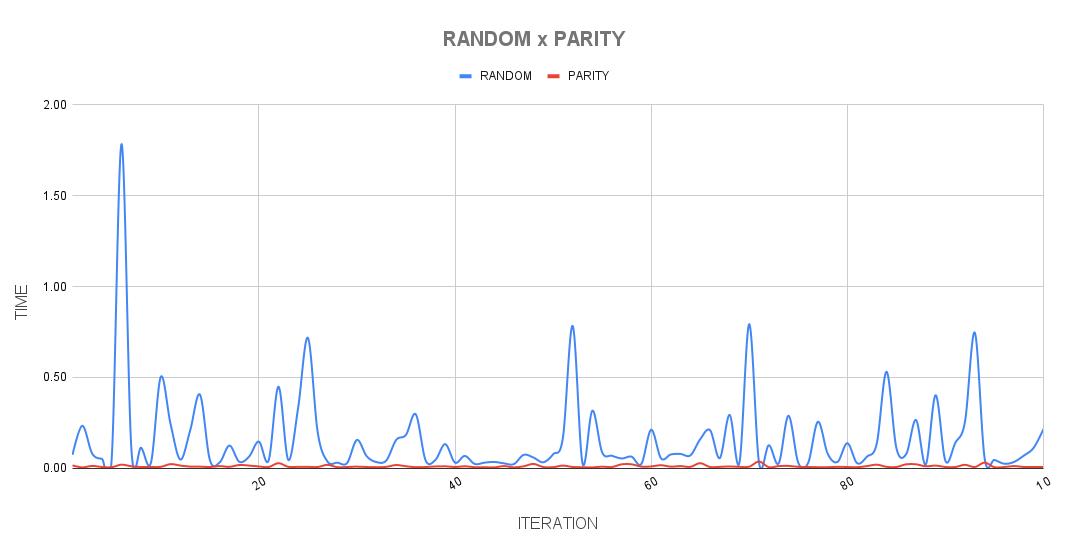
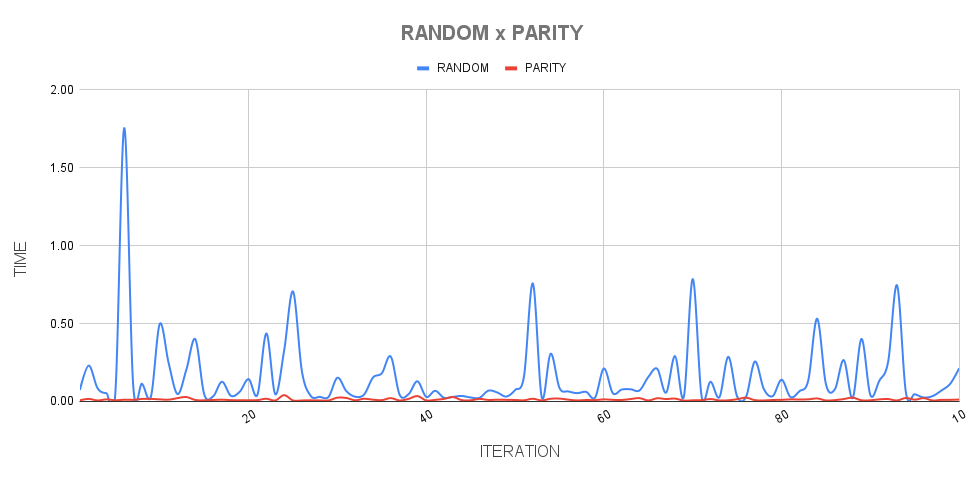
64x64 board tests

diff --git a/main.cpp b/main.cpp
@@ -11,11 +11,86 @@
 
 using namespace std;
 
-int main() {
-    cleanScreen();
-
+void simulateParity() {
     Clock clock;
-    int seed = randSeed(1); // 1650384373
+
+    cout << "Using PARITY implementation. Please wait..." << endl;
+    clock.tick();
+
+    HillClimbing<N> hillClimbing;
+    Board board = hillClimbing.getBoard();
+    int iterations, newState, state = board.attacks;
+
+    board.print("INITIAL STATE");
+
+    for (iterations = 0; true; iterations++) {
+        board = hillClimbing.calculateNextStateForParity();
+
+        board.print();
+
+        newState = board.attacks;
+
+        if (newState == 0) {
+            board.print("SOLUTION");
+            break;
+        }
+        if (state == newState) {
+            hillClimbing.randomizeOneQueenForParity();
+            hillClimbing.getBoard().print();
+        }
+
+        state = newState;
+    };
+
+    double endTime = clock.tock();
+
+    cout << "TIME SPENT: " << endTime << endl;
+    cout << "ITERATIONS: " << iterations << endl;
+
+    cout << "Completed" << endl;
+}
+
+void simulateRandom() {
+    Clock clock;
+
+    cout << "Using RANDOM implementation. Please wait..." << endl;
+    clock.tick();
+
+    HillClimbing<N> hillClimbing;
+    Board board = hillClimbing.getBoard();
+    int iterations, newState, state = board.attacks;
+
+    board.print("INITIAL STATE");
+
+    for (iterations = 0; true; iterations++) {
+        board = hillClimbing.calculateNextStateForRandom();
+
+        board.print();
+
+        newState = board.attacks;
+
+        if (newState == 0) {
+            board.print("SOLUTION");
+            break;
+        }
+        if (state == newState) {
+            hillClimbing.randomizeOneQueenForRandom();
+            hillClimbing.getBoard().print();
+        }
+
+        state = newState;
+    };
+
+    double endTime = clock.tock();
+
+    cout << "TIME SPENT: " << endTime << endl;
+    cout << "ITERATIONS: " << iterations << endl;
+
+    cout << "Completed" << endl;
+}
+
+void generateData() {
+    Clock clock;
     stringstream logFile;
     logFile << "ID;TIME;ITERATIONS;IMPLEMENTATION" << "\n";
 
@@ -24,12 +99,16 @@ int main() {
         for (int simulation = 0; simulation < SIMULATIONS; simulation++) {
             clock.tick();
 
-            HillClimbing<8> hillClimbing;
+            HillClimbing<N> hillClimbing;
             Board board = hillClimbing.getBoard();
             int iterations, newState, state = board.attacks;
 
             for (iterations = 0; true; iterations++) {
-                board = (implementation == RANDOM) ? hillClimbing.calculateNextStateForRandom() : hillClimbing.calculateNextStateForParity();
+                if (implementation == RANDOM)
+                    board = hillClimbing.calculateNextStateForRandom();
+                else
+                    board = hillClimbing.calculateNextStateForParity();
+                    
                 newState = board.attacks;
 
                 if (newState == 0)
@@ -48,57 +127,15 @@ int main() {
     createOutputFile(logFile.str(), "log");
 
     cout << "Completed" << endl;
+}
+
+int main() {
+    randSeed(1); // 1650384373
+    cleanScreen();
+
+    // generateData();
+    simulateRandom();
+    // simulateParity();
 
     return 0;
 }
-
-
-
-// int main() {
-//     cleanScreen();
-
-//     Clock clock;
-//     int seed = randSeed(1); // 1650384373
-//     stringstream logFile;
-//     logFile << "ID;SEED;TIME;ITERATIONS" << "\n";
-
-//     for (int i = 0; i < SIMULATIONS; i++) {
-//         clock.tick();
-
-//         HillClimbing<8> hillClimbing;
-//         Board board = hillClimbing.getBoard();
-//         int iterations, newState, state = board.attacks;
-
-//         board.print("INITIAL BOARD");
-
-//         for (iterations = 0; true; iterations++) {
-//             board = hillClimbing.calculateNextState2();
-//             newState = board.attacks;
-
-//             if (newState == 0) {
-//                 board.print("SOLUTION BOARD");
-//                 break;
-//             } else if (state == newState) {
-//                 hillClimbing.randomizeOneQueen();
-//             } else {
-//                 board.print("UPDATED BOARD");
-//             }
-
-//             state = newState;
-//         };
-
-//         double endTime = clock.tock();
-        
-//         cout << "SEED: " << seed << endl;
-//         cout << "TIME SPENT: " << endTime << endl;
-//         cout << "ITERATIONS: " << iterations << endl;
-//         cout << endl << endl;
-
-//         logFile << ID << ";" << seed << ";" << endTime << ";" << iterations << "\n";
-//     }
-
-//     createOutputFile(logFile.str(), "log" + to_string(ID));
-    
-//     pauseScreen();
-//     return 0;
-// }

diff --git a/model/Board.h b/model/Board.h
@@ -88,13 +88,13 @@ private:
             for (int j = 0; j < this->size; j++)
                 if (this->board[i][j] == QUEEN)
                     queens++;
-            attacks += combination2(queens);
+            attacks += calculateAttacks(queens);
 
             queens = 0;
             for (int j = 0; j < this->size; j++)
                 if (this->board[j][i] == QUEEN)
                     queens++;
-            attacks += combination2(queens);
+            attacks += calculateAttacks(queens);
         }
 
         return attacks;
@@ -113,7 +113,7 @@ private:
             for (int j = 0; j < diagonals[i].size(); j++)
                 if (diagonals[i][j] == QUEEN)
                     queens++;
-            attacks += combination2(queens);
+            attacks += calculateAttacks(queens);
         }
 
         return attacks;
@@ -130,6 +130,13 @@ private:
         return getReverseDiagonalAttacks(newBoard);
     }
 
+    /**
+     * Attacks(n) = Cn/² = N! / (2 * (N - 2)!)
+     * Attacks(n) = (N * (N - 1)) / 2
+     */
+    int calculateAttacks(int queens) {
+        return (queens * (queens - 1)) / 2;
+    }
 };
 
 #endif

diff --git a/model/HillClimbing.h b/model/HillClimbing.h
@@ -36,16 +36,20 @@ public:
     }
 
     void randomizeOneQueenForParity() {
-        int randomColumn = rand() % (this->board.size - 1);
+        int randomColumn = rand() % (this->board.size);
+        int randomColumn2 = rand() % (this->board.size);
+
+        while (randomColumn == randomColumn2)
+            randomColumn2 = rand() % (this->board.size);
 
         int iQueenPosition = this->getQueenPosition(randomColumn);
-        int jQueenPosition = this->getQueenPosition(randomColumn + 1);
+        int jQueenPosition = this->getQueenPosition(randomColumn2);
 
         this->board[iQueenPosition][randomColumn] = 0;
-        this->board[jQueenPosition][randomColumn + 1] = 0;
+        this->board[jQueenPosition][randomColumn2] = 0;
 
         this->board[jQueenPosition][randomColumn] = 1;
-        this->board[iQueenPosition][randomColumn + 1] = 1;
+        this->board[iQueenPosition][randomColumn2] = 1;
 
         this->board.calculateBoardQuality();
     }

diff --git a/model/Util.h b/model/Util.h
@@ -6,14 +6,6 @@
 #include <windows.h>
 #include <random>
 
-int fat(int number) {
-    return (number > 1) ? fat(number - 1) * number : 1;
-}
-
-int combination2(int number) {
-    return fat(number) / (2 * (fat(number - 2)));
-}
-
 void setConsoleColor(int color) {
     SetConsoleTextAttribute(GetStdHandle(STD_OUTPUT_HANDLE), color);
 }

diff --git a/model/Constants.h b/model/Constants.h
@@ -1,8 +1,6 @@
 #ifndef CONSTANTS_H
 #define CONSTANTS_H
 
-#include <vector>
-
 enum Implementation {
     RANDOM, PARITY
 };
@@ -17,5 +15,6 @@ enum ConsoleColor {
 };
 
 const unsigned int SIMULATIONS = 100;
+const unsigned int N = 64;
 
 #endif

diff --git a/README.md b/README.md
@@ -10,10 +10,48 @@ TODO
 In this section, the graphical comparison of performance between the two methods mentioned in the previous topic is presented.
 <br><br>
 
-> #### Performance comparison between Random and Parity methods
-> ![Comparison Between Random and Parity methods](assets/chart.png)
+
+<div align="center">
+<img src="assets/chart.png" alt="Comparison Between Random and Parity methods" style="width: 75%">
+</div>
+
+<div align="center">
+Performance comparison between Random and Parity methods
+</div>
 
 <br>
 
-> #### Performance comparison between Random and Parity methods (zoom applied)
-> ![Comparison Between Random and Parity methods](assets/chart_zoom.png)
+<div align="center">
+<img src="assets/chart_zoom.png" alt="Comparison Between Random and Parity methods (zoom applied)" style="width: 75%">
+</div>
+
+<div align="center">
+Performance comparison between Random and Parity methods (zoom applied)
+</div>
+
+<br><br>
+
+## 64x64 Board 
+The Parity method was able to converge a 64x64 board to the solution in approximately 4min28s, while the Random method needed approximately 29min21s.
+
+<br>
+
+<div align="center">
+<img src="assets/board64solution.png" alt="Comparison Between Random and Parity methods (zoom applied)" style="width: 75%">
+</div>
+
+<div align="center">
+64x64 board solved with Parity Method
+</div>
+
+<br>
+
+<div align="center">
+<img src="assets/board64solutionRandom.png" alt="Comparison Between Random and Parity methods (zoom applied)" style="width: 75%">
+</div>
+
+<div align="center">
+64x64 board solved with Random Method
+</div>
+
+<br><br>
